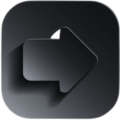
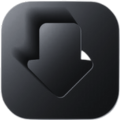
Przycisk aparatu na srodku, menu po prawej w pasku dolnym

diff --git a/components/mobile/CourseViewer.tsx b/components/mobile/CourseViewer.tsx
@@ -3234,10 +3234,51 @@ useEffect(() => {
           </div>
         </div>
         
-        {/* Menu button - kontener z strzałka.png */}
-        <div className="flex justify-center items-center" style={{ marginTop: '-2px' }}>
-        <button
-          onClick={() => setShowMobileMenu(true)}
+        {/* Przyciski dolnego paska - aparat na środku, menu po prawej */}
+        <div className="flex justify-between items-center px-4" style={{ marginTop: '-2px' }}>
+          {/* Lewa strona - pusta */}
+          <div className="w-[40px] h-[40px]"></div>
+          
+          {/* Środek - przycisk aparatu */}
+          <button
+            onClick={() => {
+              const token = localStorage.getItem('token')
+              if (!token) {
+                alert('Musisz być zalogowany')
+                return
+              }
+              setShowCamera(true)
+            }}
+            className="relative w-[50px] h-[50px] rounded-[14px] overflow-hidden transition-all duration-150 active:scale-[0.95] active:translate-y-1"
+            style={{ 
+              boxShadow: '-10px 10px 30px rgba(150, 150, 150, 0.5), -15px 15px 50px rgba(120, 120, 120, 0.3), 3px -3px 20px rgba(150, 150, 150, 0.2)',
+              padding: 0,
+              border: 'none',
+              backgroundImage: 'url(/course/ikony/aparat.png)',
+              backgroundSize: '100% 100%',
+              backgroundPosition: 'center',
+              backgroundRepeat: 'no-repeat'
+            }}
+            onMouseDown={(e) => {
+              e.currentTarget.style.boxShadow = 'inset 0 2px 10px rgba(0, 0, 0, 0.3), -5px 5px 20px rgba(150, 150, 150, 0.3), -10px 10px 40px rgba(120, 120, 120, 0.2)'
+            }}
+            onMouseUp={(e) => {
+              e.currentTarget.style.boxShadow = '-10px 10px 30px rgba(150, 150, 150, 0.5), -15px 15px 50px rgba(120, 120, 120, 0.3), 3px -3px 20px rgba(150, 150, 150, 0.2)'
+            }}
+            onMouseLeave={(e) => {
+              e.currentTarget.style.boxShadow = '-10px 10px 30px rgba(150, 150, 150, 0.5), -15px 15px 50px rgba(120, 120, 120, 0.3), 3px -3px 20px rgba(150, 150, 150, 0.2)'
+            }}
+            onTouchStart={(e) => {
+              e.currentTarget.style.boxShadow = 'inset 0 2px 10px rgba(0, 0, 0, 0.3), -5px 5px 20px rgba(150, 150, 150, 0.3), -10px 10px 40px rgba(120, 120, 120, 0.2)'
+            }}
+            onTouchEnd={(e) => {
+              e.currentTarget.style.boxShadow = '-10px 10px 30px rgba(150, 150, 150, 0.5), -15px 15px 50px rgba(120, 120, 120, 0.3), 3px -3px 20px rgba(150, 150, 150, 0.2)'
+            }}
+          />
+          
+          {/* Prawa strona - przycisk menu */}
+          <button
+            onClick={() => setShowMobileMenu(true)}
             className="relative w-[40px] h-[40px] rounded-[10px] overflow-hidden transition-all duration-150 active:scale-[0.95] active:translate-y-1"
             style={{ 
               boxShadow: '-10px 10px 30px rgba(150, 150, 150, 0.5), -15px 15px 50px rgba(120, 120, 120, 0.3), 3px -3px 20px rgba(150, 150, 150, 0.2)',
